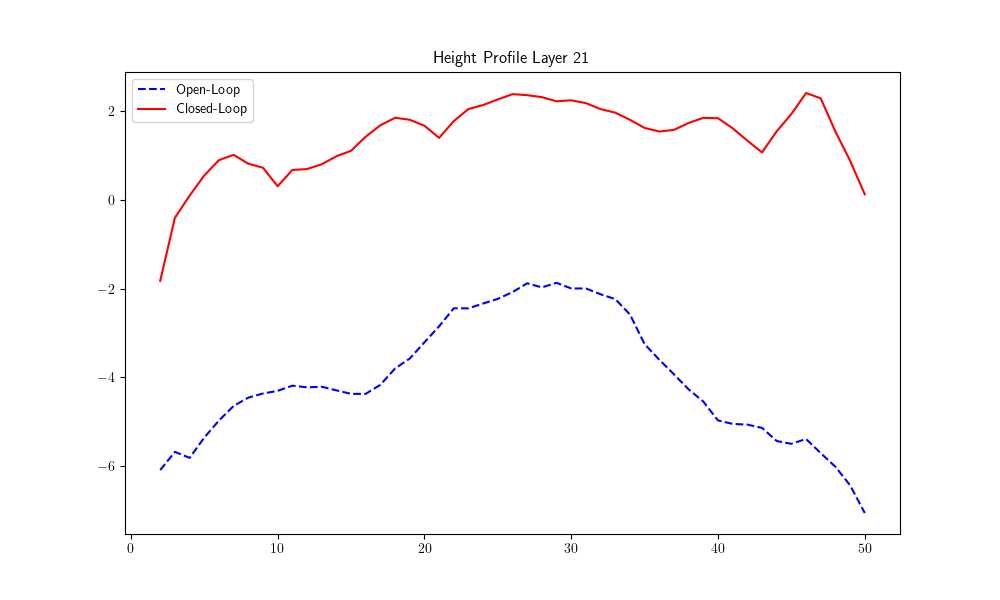
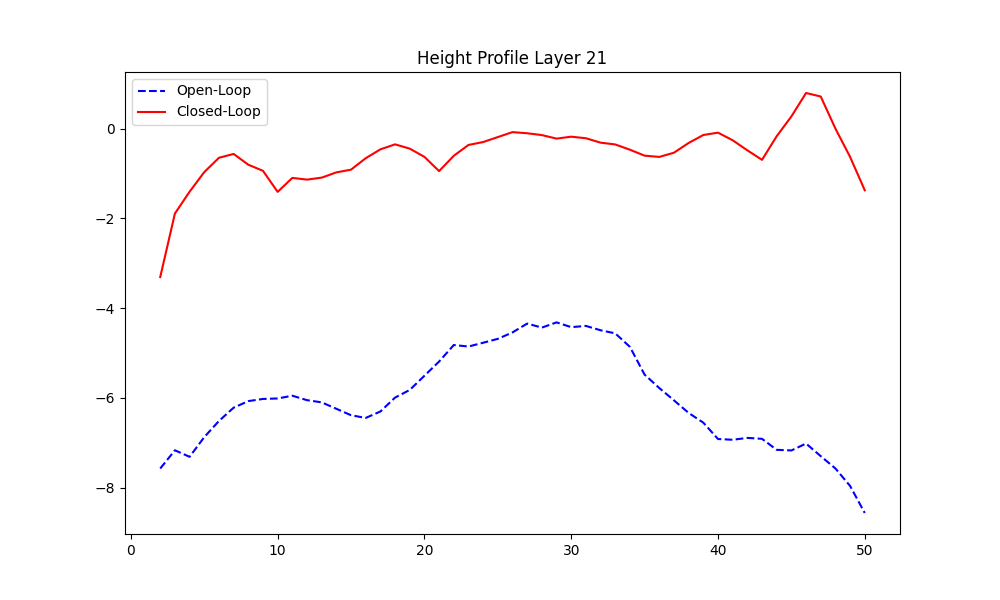
First stab at height plots for paper

diff --git a/scan/angled_layer/rms_process.py b/scan/angled_layer/rms_process.py
@@ -8,7 +8,7 @@ from robotics_utils import H_inv
 sys.path.append('../../toolbox')
 from angled_layers import avg_by_line, rotate
 
-plt.rcParams['text.usetex'] = True
+# plt.rcParams['text.usetex'] = True
 
 def rms_error(data):
     data = np.array(data)
@@ -24,6 +24,7 @@ config_dir = "../../config/"
 dataset = "bent_tube/"
 sliced_alg = "slice_ER_4043/"
 data_dir = "../../data/" + dataset + sliced_alg
+
 # flame_set = 'processing_data/ER4043_bent_tube_2024_09_04_12_23_40_flame.pkl'
 flame_sets = [
     'processing_data/ER4043_bent_tube_2024_08_28_12_24_30_flame.pkl',
@@ -69,10 +70,11 @@ fig.set_size_inches(10,6)
 fig.set_dpi(200)
 plt_params = [
     'b--',
-    'r'
+    'r',
+    'orange'
 ]
 
-layer_start = 20
+layer_start = 71
 rms_errs = []
 
 for idx,flame_set in enumerate(flame_sets):
@@ -86,8 +88,20 @@ for idx,flame_set in enumerate(flame_sets):
             (slicing_meta["point_of_rotation"], slicing_meta["baselayer_thickness"]))
     base_thickness = slicing_meta["baselayer_thickness"]
     layer_angle = np.array((slicing_meta["layer_angle"]))
+
+    curve_sliced = np.loadtxt(data_dir+"curve_sliced/slice1_0.csv", delimiter=',')
+    dist_to_por = []
+    for i in range(len(curve_sliced)):
+        point = np.array((curve_sliced[i, 0], curve_sliced[i, 2]))
+        dist = np.linalg.norm(point - point_of_rotation)
+        dist_to_por.append(dist)
+
+    height_profile = []
+    for distance in dist_to_por:
+        height_profile.append(distance * np.sin(np.deg2rad(layer_angle)))
     height_err = []
     flames_flat = []
+    # for layer, flame in enumerate(flames):
     for layer, flame in enumerate(flames[layer_start:layer_start+1]):
         to_flat_angle = np.deg2rad(layer_angle*(layer+layer_start))
         for i in range(flame.shape[0]):
@@ -103,7 +117,11 @@ for idx,flame_set in enumerate(flame_sets):
         averages= avg_by_line(flame[:,0], flame[:,1:], np.linspace(0,49,50))
         height_err.append(averages[:,2])
         flames_flat.append(averages)
-        ax.plot(np.linspace(1,50,50),averages[:,2], plt_params[idx])
+        if idx == 1:
+            ax.plot(np.linspace(1,50,50),averages[:,2], plt_params[idx])
+        ax.plot(np.linspace(1,50,50),height_profile, plt_params[2])
+        # ax.plot(np.linspace(1,50,50),np.zeros(50), plt_params[2])
+
         
 
 
@@ -117,15 +135,18 @@ for idx,flame_set in enumerate(flame_sets):
     for scan in height_err:
         rms_err.append(rms_error(scan))
     rms_errs.append(rms_err)
+print("max openloop error: ", np.max(rms_errs[0]))
+print("max closed-loop error: ", np.max(rms_errs[1]))
 ax_2.plot(np.linspace(1,len(height_err),len(height_err)),rms_errs[0], plt_params[0])
 ax_2.plot(np.linspace(1,len(height_err),len(height_err)),rms_errs[1], plt_params[1])
 ax_2.set_xlabel("Layer Number")
 ax_2.set_ylabel("RMSE (mm)")
 ax_2.legend(["Open-Loop", "Closed-Loop"])
-ax.legend(["Open-Loop", "Closed-Loop"])
+ax.legend(["Closed-Loop", "Target"])
 ax.set_title(f"Height Profile Layer {layer_start+1}")
 ax_2.grid()
-fig_2.savefig('rms_plot.png')
+# fig_2.savefig('rms_plot.png')
 fig.savefig(f'height_profile_{layer_start+1}.png')
 plt.show()
-        
+
+

diff --git a/scan/angled_layer/vel_profile_vis.py b/scan/angled_layer/vel_profile_vis.py
@@ -1,15 +1,62 @@
 import matplotlib.pyplot as plt
 import numpy as np
-layers = [10, 20, 30,40, 50]
+layer = 72
 fig,ax=plt.subplots(1,1)
-for layer in layers:
-    vel_profile = np.loadtxt(
-        f"../../../recorded_data/ER4043_bent_tube_small_2024_09_12_12_14_40/layer_{layer}/velocity_profile.csv",
-        delimiter = ','
-    )
-    ax.plot(vel_profile)
+fig.set_size_inches(10,6)
+fig.set_dpi(200)
+cap_data=f"../../../recorded_data/ER4043_bent_tube_2024_09_04_12_23_40/layer_{layer}/"
+vel_profile = np.loadtxt(
+    cap_data+"velocity_profile.csv",
+    delimiter = ','
+)
+
+import sys
+import yaml
+import matplotlib.pyplot as plt
+import numpy as np
+from motoman_def import robot_obj, positioner_obj
+from robotics_utils import H_inv
+import scipy
+import matplotlib.animation as animation
+import pickle
+
+sys.path.append('../../toolbox')
+from angled_layers import rotate, flame_tracking, avg_by_line, calc_velocity, SpeedHeightModel
+
+config_dir = "../../config/"
+flir_intrinsic = yaml.load(open(config_dir + "FLIR_A320_legacy.yaml"), Loader=yaml.FullLoader)
+dataset = "bent_tube/"
+sliced_alg = "slice_ER_4043/"
+data_dir = "../../data/" + dataset + sliced_alg
+
+with open(data_dir + "slicing.yml", "r") as file:
+    slicing_meta = yaml.safe_load(file)
+
+robot = robot_obj(
+    "MA2010_A0",
+    def_path=config_dir+"MA2010_A0_robot_default_config.yml",
+    tool_file_path=config_dir+"torch_no_fujimount.csv",
+    pulse2deg_file_path=config_dir+"MA2010_A0_pulse2deg_real.csv",
+    d=15,
+)
+robot2 = robot_obj(
+    "MA1440_A0",
+    def_path=config_dir+"MA1440_A0_robot_default_config.yml",
+    tool_file_path=config_dir+"flir.csv",
+    pulse2deg_file_path=config_dir+"MA1440_A0_pulse2deg_real.csv",
+    base_transformation_file=config_dir+"MA1440_pose.csv",
+)
+positioner = positioner_obj(
+    "D500B",
+    def_path=config_dir+"D500B_robot_default_config.yml",
+    tool_file_path=config_dir+"positioner_tcp.csv",
+    pulse2deg_file_path=config_dir+"D500B_pulse2deg_real.csv",
+    base_transformation_file=config_dir+"D500B_pose.csv",
+)
+
+ax.plot(vel_profile, 'r')
 ax.set_xlabel("Segment Number")
 ax.set_ylabel("Velocity (mm/s)")
-ax.set_title(f"Layers {layers}")
-ax.legend(layers)
+ax.set_title(f"Layer {layer} Velocity Profile")
+fig.savefig(f'velocity_profile_{layer}.png')
 plt.show()

diff --git a/scan/angled_layer/dh_data_process.py b/scan/angled_layer/dh_data_process.py
@@ -10,9 +10,9 @@ from angled_layers import avg_by_line, rotate
 
 config_dir = "../../config/"
 dataset = "bent_tube/"
-sliced_alg = "slice_ER_4043_small/"
+sliced_alg = "slice_ER_4043/"
 data_dir = "../../data/" + dataset + sliced_alg
-flame_set = 'processing_data/ER4043_bent_tube_small_2024_09_12_12_14_40_flame.pkl'
+flame_set = 'processing_data/ER4043_bent_tube_2024_09_04_12_23_40_flame.pkl'
 
 with open(data_dir + "slicing.yml", "r") as file:
     slicing_meta = yaml.safe_load(file)
@@ -97,11 +97,11 @@ for i in range(len(flames_prev)-1):
 
 fig = plt.figure()
 ax = plt.axes(projection = '3d')
-for i in range(1,2):
+for i in range(10,20):
     ax.scatter(flames_flat[i][:,0],flames_flat[i][:,1],flames_flat[i][:,2])
     ax.scatter(flames_prev[i][:,0],flames_prev[i][:,1],flames_prev[i][:,2])
 plt.show()
 
 fig, ax = plt.subplots(1,1)
-ax.plot(dhs[0])
+ax.plot(dhs[2])
 plt.show()

diff --git a/scan/angled_layer/rot_test.py b/scan/angled_layer/rot_test.py
@@ -1,0 +1,21 @@
+import sys
+import numpy as np
+import matplotlib.pyplot as plt
+sys.path.append('../../toolbox')
+from angled_layers import avg_by_line, rotate
+
+rot_point = np.array([3,0,10])
+angle = np.deg2rad(20)
+data = np.array([0, 10,5])
+
+rotated_data = rotate(rot_point[[0,2]],data[[0,2]], angle)
+
+
+fig, ax = plt.subplots(1,1)
+ax.plot(data[0], data[2], 'ro')
+ax.plot(rot_point[0], rot_point[2], 'bo')
+ax.plot(rotated_data[0], rotated_data[1], 'go')
+ax.set_aspect('equal')
+plt.show()
+
+
